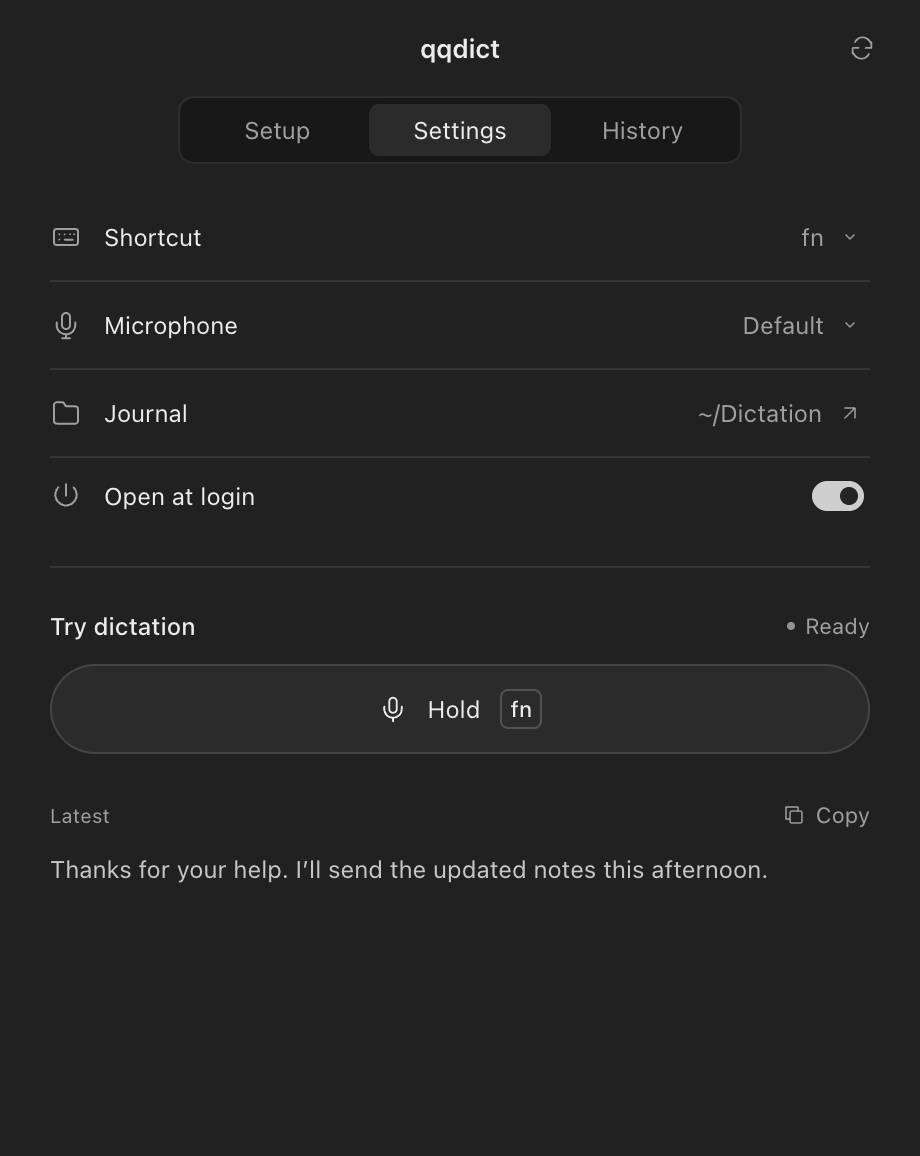
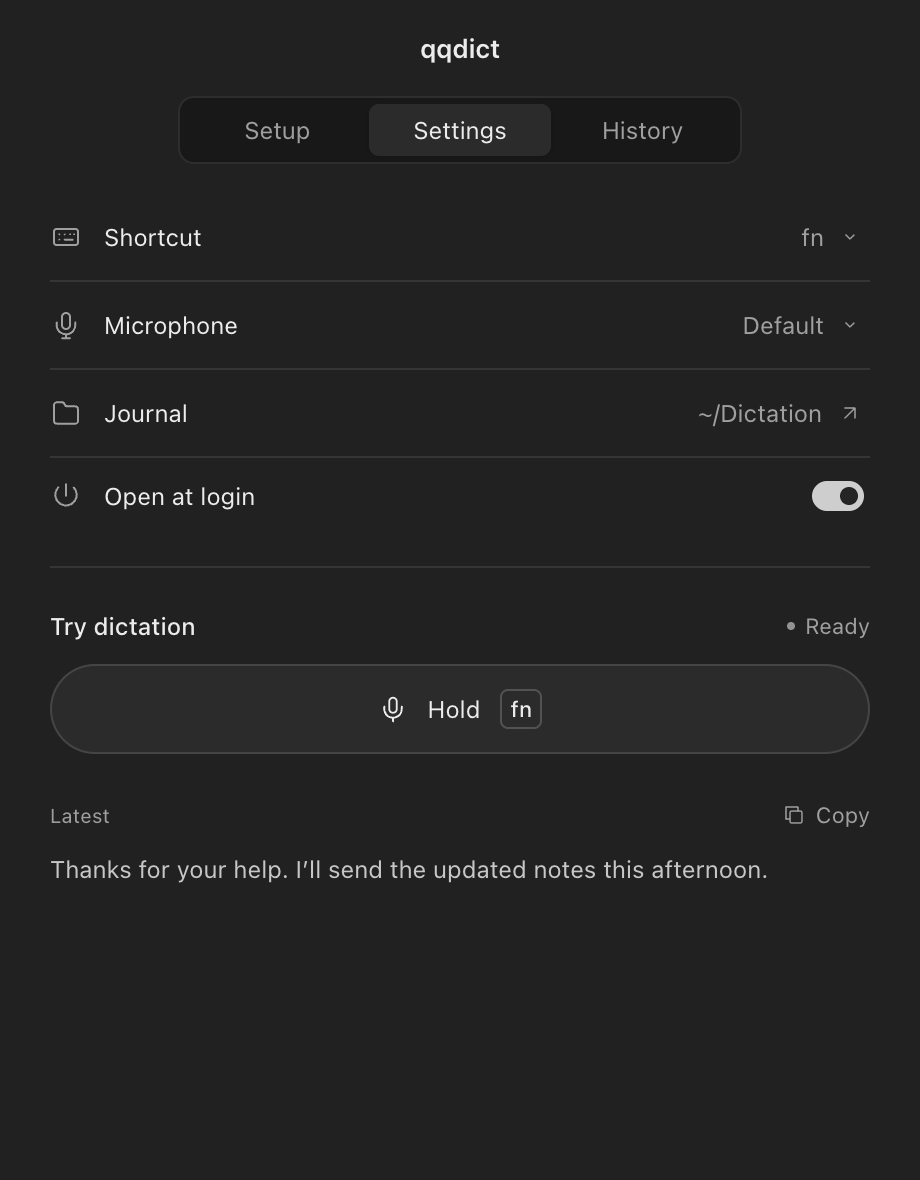
Move connection check from header into Setup

diff --git a/src/styles.css b/src/styles.css
@@ -1,6 +1,4 @@
 :root{color-scheme:dark;--canvas:#181818;--panel:#212121;--elevated:#2b2b2b;--hover:#303030;--border:#353535;--text:#ececec;--secondary:#9f9f9f;font-family:-apple-system,BlinkMacSystemFont,"SF Pro Text",sans-serif;font-size:13px;color:var(--text);background:var(--panel);font-synthesis:none;text-rendering:optimizeLegibility;-webkit-font-smoothing:antialiased}
-*{box-sizing:border-box}[hidden]{display:none!important}body{margin:0}button,select,input{font:inherit;color:inherit}button{cursor:pointer}button:disabled{cursor:default}button:focus-visible,select:focus-visible,input:focus-visible{outline:2px solid var(--text);outline-offset:3px}svg{width:16px;height:16px;fill:none;stroke:currentColor;stroke-width:1.5;stroke-linecap:round;stroke-linejoin:round;flex-shrink:0}.app{max-width:560px;margin:0 auto;height:100vh;display:flex;flex-direction:column}.titlebar{height:48px;flex-shrink:0;display:grid;grid-template-columns:74px 1fr 74px;align-items:center;padding:0 16px;user-select:none;-webkit-app-region:drag}h1{grid-column:2;margin:0;text-align:center;font-size:13px;font-weight:600;letter-spacing:-.1px}.icon-button{display:flex;align-items:center;justify-content:center;width:26px;height:26px;padding:0;border:0;border-radius:5px;background:transparent;color:var(--secondary)}.icon-button:hover{background:var(--hover);color:var(--text)}.titlebar .icon-button{grid-column:3;justify-self:end;-webkit-app-region:no-drag}.icon-button svg{width:14px;height:14px}.tabs{display:flex;flex-shrink:0;width:282px;padding:3px;margin:0 auto;background:var(--canvas);border:1px solid #2d2d2d;border-radius:8px}.tab{width:33.333%;height:26px;border:0;border-radius:5px;background:transparent;color:var(--secondary);font-size:12px}.tab[aria-selected="true"]{background:var(--elevated);color:var(--text);box-shadow:0 1px 3px #0002}.tab:hover{color:var(--text)}.content{padding:15px 25px 24px;flex:1;min-height:0;overflow-y:auto;scrollbar-width:thin;scrollbar-color:#454545 transparent}.row{display:flex;align-items:center;justify-content:space-between;gap:14px;min-height:44px;border-bottom:1px solid var(--border)}.row:last-child{border-bottom:0}.row-label{display:flex;align-items:center;gap:11px;white-space:nowrap;font-size:12px}.row-label svg{color:var(--secondary)}.select-wrap{position:relative;display:flex;align-items:center;max-width:58%;min-width:75px}select{appearance:none;border:0;background:transparent;border-radius:5px;padding:7px 23px 7px 10px;text-align:right;cursor:pointer;width:100%;font-size:12px;color:var(--secondary)}select:hover{background:var(--hover);color:var(--text)}select:disabled{opacity:.5;cursor:default}option{background:var(--elevated);color:var(--text)}.select-wrap svg{position:absolute;right:4px;width:12px;height:12px;color:var(--secondary);pointer-events:none}.journal-button{display:flex;align-items:center;gap:8px;background:transparent;border:0;border-radius:5px;padding:7px 4px 7px 10px;max-width:58%;color:var(--secondary);font-size:12px}.journal-button span{overflow:hidden;text-overflow:ellipsis;white-space:nowrap}.journal-button:hover{background:var(--hover);color:var(--text)}.journal-button svg{width:12px;height:12px}.login-row{min-height:38px}.login-row input{appearance:none;width:26px;height:15px;border:1px solid #535353;border-radius:9px;background:var(--canvas);position:relative;margin:0 3px 0 0;cursor:pointer}.login-row input:before{content:"";position:absolute;top:2px;left:2px;width:9px;height:9px;border-radius:50%;background:#8f8f8f;transition:transform .15s}.login-row input:checked{background:#cecece;border-color:#cecece}.login-row input:checked:before{transform:translateX(11px);background:#252525}.test{padding-top:22px;border-top:1px solid var(--border);margin-top:16px}.test-heading{display:flex;align-items:center;justify-content:space-between;gap:12px;margin-bottom:12px}.test-heading h2{font-size:12px;font-weight:500;margin:0}.status{display:flex;align-items:center;gap:5px;font-size:11px;color:var(--secondary);white-space:nowrap}.status-dot{width:4px;height:4px;background:#929292;border-radius:50%}.recording .status-dot,.starting .status-dot,.transcribing .status-dot{animation:pulse 1s ease-in-out infinite}.hold{touch-action:none;display:flex;align-items:center;justify-content:center;gap:10px;height:45px;width:100%;border:1px solid #454545;border-radius:24px;background:var(--elevated);color:var(--text);font-size:12px;user-select:none;transition:background .15s,border-color .15s}.hold:hover:not(:disabled){background:var(--hover);border-color:#5a5a5a}.hold:disabled{opacity:.55}.recording .hold,.starting .hold{background:var(--text);border-color:var(--text);color:var(--canvas)}.transcribing .hold{color:var(--secondary)}.hold svg{width:15px;height:15px}.hold kbd{font-size:11px;border:1px solid #525252;border-radius:4px;min-width:21px;height:20px;padding:0 4px;display:inline-grid;place-items:center;font-family:inherit;font-weight:500}.wave{height:20px;display:none;align-items:center;gap:3px}.wave span{width:2px;height:4px;min-height:4px;background:currentColor;border-radius:1px;transition:height 70ms linear}.recording .wave{display:flex}.recording .hold kbd,.starting .hold kbd,.transcribing .hold kbd,.recording .mic-icon{display:none}.recording-time{font-size:11px;font-variant-numeric:tabular-nums;color:inherit}.latest{margin-top:20px}.latest-top{display:flex;align-items:center;justify-content:space-between;gap:12px;color:var(--secondary);font-size:10px}.copy{border:0;background:transparent;border-radius:4px;padding:4px 0 4px 8px;font-size:11px;color:var(--secondary);display:flex;align-items:center;gap:5px;white-space:nowrap}.copy:hover:not(:disabled){color:var(--text)}.copy:disabled{opacity:.4}.copy svg{width:12px;height:12px}.transcript{margin:7px 0 0;color:#c7c7c7;font-size:12px;line-height:1.6;white-space:pre-wrap;overflow-wrap:anywhere;max-height:78px;overflow:auto;min-height:25px}.history-panel{padding-top:12px}.history-head{display:flex;align-items:center;justify-content:space-between;padding-bottom:17px;color:var(--secondary);font-size:11px}#history-count{font-size:10px}.history-item{padding:16px 0;border-top:1px solid var(--border)}.history-meta{display:flex;align-items:center;justify-content:space-between;gap:10px;color:var(--secondary);font-size:10px}.history-item p{margin:7px 0 0;font-size:12px;line-height:1.6;color:#c7c7c7;white-space:pre-wrap;overflow-wrap:anywhere}.history-note{display:block;color:#a7a7a7;margin-top:7px;font-size:10px}.empty-history{font-size:12px;color:var(--secondary);margin:22px 0;text-align:center}.notice{display:flex;align-items:flex-start;gap:12px;border:1px solid #454545;background:var(--elevated);border-radius:7px;padding:10px 12px;margin-bottom:13px;font-size:11px;line-height:1.5;overflow-wrap:anywhere}.notice span{flex:1}.notice .icon-button{width:18px;height:18px;flex-shrink:0}body.recorder{background:transparent}.recorder .app{display:none}@keyframes pulse{50%{opacity:.35}}@media(max-width:420px){.content{padding:15px 19px 21px}}@media(prefers-reduced-motion:reduce){*,*::before,*::after{animation:none!important;transition:none!important}}
+*{box-sizing:border-box}[hidden]{display:none!important}body{margin:0}button,select,input{font:inherit;color:inherit}button{cursor:pointer}button:disabled{cursor:default}button:focus-visible,select:focus-visible,input:focus-visible{outline:2px solid var(--text);outline-offset:3px}svg{width:16px;height:16px;fill:none;stroke:currentColor;stroke-width:1.5;stroke-linecap:round;stroke-linejoin:round;flex-shrink:0}.app{max-width:560px;margin:0 auto;height:100vh;display:flex;flex-direction:column}.titlebar{height:48px;flex-shrink:0;display:grid;grid-template-columns:74px 1fr 74px;align-items:center;padding:0 16px;user-select:none;-webkit-app-region:drag}h1{grid-column:2;margin:0;text-align:center;font-size:13px;font-weight:600;letter-spacing:-.1px}.icon-button{display:flex;align-items:center;justify-content:center;width:26px;height:26px;padding:0;border:0;border-radius:5px;background:transparent;color:var(--secondary)}.icon-button:hover{background:var(--hover);color:var(--text)}.icon-button svg{width:14px;height:14px}.tabs{display:flex;flex-shrink:0;width:282px;padding:3px;margin:0 auto;background:var(--canvas);border:1px solid #2d2d2d;border-radius:8px}.tab{width:33.333%;height:26px;border:0;border-radius:5px;background:transparent;color:var(--secondary);font-size:12px}.tab[aria-selected="true"]{background:var(--elevated);color:var(--text);box-shadow:0 1px 3px #0002}.tab:hover{color:var(--text)}.content{padding:15px 25px 24px;flex:1;min-height:0;overflow-y:auto;scrollbar-width:thin;scrollbar-color:#454545 transparent}.row{display:flex;align-items:center;justify-content:space-between;gap:14px;min-height:44px;border-bottom:1px solid var(--border)}.row:last-child{border-bottom:0}.row-label{display:flex;align-items:center;gap:11px;white-space:nowrap;font-size:12px}.row-label svg{color:var(--secondary)}.select-wrap{position:relative;display:flex;align-items:center;max-width:58%;min-width:75px}select{appearance:none;border:0;background:transparent;border-radius:5px;padding:7px 23px 7px 10px;text-align:right;cursor:pointer;width:100%;font-size:12px;color:var(--secondary)}select:hover{background:var(--hover);color:var(--text)}select:disabled{opacity:.5;cursor:default}option{background:var(--elevated);color:var(--text)}.select-wrap svg{position:absolute;right:4px;width:12px;height:12px;color:var(--secondary);pointer-events:none}.journal-button{display:flex;align-items:center;gap:8px;background:transparent;border:0;border-radius:5px;padding:7px 4px 7px 10px;max-width:58%;color:var(--secondary);font-size:12px}.journal-button span{overflow:hidden;text-overflow:ellipsis;white-space:nowrap}.journal-button:hover{background:var(--hover);color:var(--text)}.journal-button svg{width:12px;height:12px}.login-row{min-height:38px}.login-row input{appearance:none;width:26px;height:15px;border:1px solid #535353;border-radius:9px;background:var(--canvas);position:relative;margin:0 3px 0 0;cursor:pointer}.login-row input:before{content:"";position:absolute;top:2px;left:2px;width:9px;height:9px;border-radius:50%;background:#8f8f8f;transition:transform .15s}.login-row input:checked{background:#cecece;border-color:#cecece}.login-row input:checked:before{transform:translateX(11px);background:#252525}.test{padding-top:22px;border-top:1px solid var(--border);margin-top:16px}.test-heading{display:flex;align-items:center;justify-content:space-between;gap:12px;margin-bottom:12px}.test-heading h2{font-size:12px;font-weight:500;margin:0}.status{display:flex;align-items:center;gap:5px;font-size:11px;color:var(--secondary);white-space:nowrap}.status-dot{width:4px;height:4px;background:#929292;border-radius:50%}.recording .status-dot,.starting .status-dot,.transcribing .status-dot{animation:pulse 1s ease-in-out infinite}.hold{touch-action:none;display:flex;align-items:center;justify-content:center;gap:10px;height:45px;width:100%;border:1px solid #454545;border-radius:24px;background:var(--elevated);color:var(--text);font-size:12px;user-select:none;transition:background .15s,border-color .15s}.hold:hover:not(:disabled){background:var(--hover);border-color:#5a5a5a}.hold:disabled{opacity:.55}.recording .hold,.starting .hold{background:var(--text);border-color:var(--text);color:var(--canvas)}.transcribing .hold{color:var(--secondary)}.hold svg{width:15px;height:15px}.hold kbd{font-size:11px;border:1px solid #525252;border-radius:4px;min-width:21px;height:20px;padding:0 4px;display:inline-grid;place-items:center;font-family:inherit;font-weight:500}.wave{height:20px;display:none;align-items:center;gap:3px}.wave span{width:2px;height:4px;min-height:4px;background:currentColor;border-radius:1px;transition:height 70ms linear}.recording .wave{display:flex}.recording .hold kbd,.starting .hold kbd,.transcribing .hold kbd,.recording .mic-icon{display:none}.recording-time{font-size:11px;font-variant-numeric:tabular-nums;color:inherit}.latest{margin-top:20px}.latest-top{display:flex;align-items:center;justify-content:space-between;gap:12px;color:var(--secondary);font-size:10px}.copy{border:0;background:transparent;border-radius:4px;padding:4px 0 4px 8px;font-size:11px;color:var(--secondary);display:flex;align-items:center;gap:5px;white-space:nowrap}.copy:hover:not(:disabled){color:var(--text)}.copy:disabled{opacity:.4}.copy svg{width:12px;height:12px}.transcript{margin:7px 0 0;color:#c7c7c7;font-size:12px;line-height:1.6;white-space:pre-wrap;overflow-wrap:anywhere;max-height:78px;overflow:auto;min-height:25px}.history-panel{padding-top:12px}.history-head{display:flex;align-items:center;justify-content:space-between;padding-bottom:17px;color:var(--secondary);font-size:11px}#history-count{font-size:10px}.history-item{padding:16px 0;border-top:1px solid var(--border)}.history-meta{display:flex;align-items:center;justify-content:space-between;gap:10px;color:var(--secondary);font-size:10px}.history-item p{margin:7px 0 0;font-size:12px;line-height:1.6;color:#c7c7c7;white-space:pre-wrap;overflow-wrap:anywhere}.history-note{display:block;color:#a7a7a7;margin-top:7px;font-size:10px}.empty-history{font-size:12px;color:var(--secondary);margin:22px 0;text-align:center}.notice{display:flex;align-items:flex-start;gap:12px;border:1px solid #454545;background:var(--elevated);border-radius:7px;padding:10px 12px;margin-bottom:13px;font-size:11px;line-height:1.5;overflow-wrap:anywhere}.notice span{flex:1}.notice .icon-button{width:18px;height:18px;flex-shrink:0}body.recorder{background:transparent}.recorder .app{display:none}@keyframes pulse{50%{opacity:.35}}@media(max-width:420px){.content{padding:15px 19px 21px}}@media(prefers-reduced-motion:reduce){*,*::before,*::after{animation:none!important;transition:none!important}}
 
-.setup-panel{padding-top:13px}.setup-heading h2{font-size:22px;font-weight:600;letter-spacing:-.6px;margin:0;line-height:1.2}.setup-heading p{margin:8px 0 0;font-size:12px;color:var(--secondary);line-height:1.5}.setup-progress{margin:20px 0 5px;color:var(--secondary);font-size:11px}.setup-progress progress{display:block;width:100%;height:4px;margin-top:9px;border:0;border-radius:3px;overflow:hidden;background:var(--border);appearance:none}.setup-progress progress::-webkit-progress-bar{background:var(--border);border-radius:3px}.setup-progress progress::-webkit-progress-value{background:#d6d6d6;border-radius:3px;transition:width .2s}.setup-step{display:flex;align-items:center;gap:12px;min-height:72px;padding:14px 0;border-bottom:1px solid var(--border)}.setup-step:last-child{border-bottom:0}.step-mark{display:grid;place-items:center;flex-shrink:0;width:26px;height:26px;border:1px solid #484848;border-radius:50%;color:var(--secondary);font-size:11px;font-variant-numeric:tabular-nums}.setup-step.complete .step-mark{background:#d6d6d6;border-color:#d6d6d6;color:#212121}.setup-step.is-next .step-mark{border-color:#a7a7a7;color:var(--text)}.step-copy{flex:1;min-width:0}.step-copy h3{margin:0;font-size:12px;font-weight:600}.step-copy p{margin:5px 0 0;color:var(--secondary);font-size:11px;line-height:1.45;overflow-wrap:anywhere}.step-state{font-size:11px;color:var(--secondary);white-space:nowrap}.setup-action{flex-shrink:0;min-height:30px;padding:6px 10px;border:1px solid #4a4a4a;border-radius:6px;background:transparent;color:var(--text);font-size:11px;white-space:nowrap}.setup-action:hover:not(:disabled){background:var(--hover);border-color:#686868}.setup-action:disabled{color:var(--secondary);border-color:#383838}.setup-step.is-next .setup-action{background:var(--text);border-color:var(--text);color:var(--canvas)}.setup-step.is-next .setup-action:hover:not(:disabled){background:#d8d8d8;border-color:#d8d8d8}.setup-continue{display:flex;align-items:center;justify-content:center;gap:9px;min-height:40px;width:100%;margin-top:20px;border:1px solid var(--text);border-radius:22px;background:var(--text);color:var(--canvas);font-size:12px;font-weight:500}.setup-continue:hover{background:#d8d8d8;border-color:#d8d8d8}.setup-continue svg{width:14px;height:14px}.tab[data-incomplete="true"]::after{content:"";display:inline-block;width:4px;height:4px;margin-left:5px;border-radius:50%;background:currentColor;vertical-align:middle}@media(max-width:420px){.setup-step{gap:9px}.setup-action{padding:6px 8px}.step-copy p{font-size:10px}}@media(prefers-reduced-motion:reduce){.setup-progress progress::-webkit-progress-value{transition:none}}
-
-.icon-button:disabled{opacity:.5}.icon-button[aria-busy="true"] svg{animation:refresh-spin 1s linear infinite}@keyframes refresh-spin{to{transform:rotate(360deg)}}@media(prefers-reduced-motion:reduce){.icon-button[aria-busy="true"] svg{animation:none}}
+.setup-panel{padding-top:13px}.setup-heading h2{font-size:22px;font-weight:600;letter-spacing:-.6px;margin:0;line-height:1.2}.setup-heading p{margin:8px 0 0;font-size:12px;color:var(--secondary);line-height:1.5}.setup-progress{margin:20px 0 5px;color:var(--secondary);font-size:11px}.setup-progress-meta{display:flex;align-items:center;justify-content:space-between;gap:12px;min-height:22px}.setup-check{border:0;border-radius:4px;background:transparent;padding:4px 6px;color:var(--secondary);font-size:11px;white-space:nowrap}.setup-check:hover:not(:disabled){background:var(--hover);color:var(--text)}.setup-check:disabled{opacity:.6}.setup-progress progress{display:block;width:100%;height:4px;margin-top:9px;border:0;border-radius:3px;overflow:hidden;background:var(--border);appearance:none}.setup-progress progress::-webkit-progress-bar{background:var(--border);border-radius:3px}.setup-progress progress::-webkit-progress-value{background:#d6d6d6;border-radius:3px;transition:width .2s}.setup-step{display:flex;align-items:center;gap:12px;min-height:72px;padding:14px 0;border-bottom:1px solid var(--border)}.setup-step:last-child{border-bottom:0}.step-mark{display:grid;place-items:center;flex-shrink:0;width:26px;height:26px;border:1px solid #484848;border-radius:50%;color:var(--secondary);font-size:11px;font-variant-numeric:tabular-nums}.setup-step.complete .step-mark{background:#d6d6d6;border-color:#d6d6d6;color:#212121}.setup-step.is-next .step-mark{border-color:#a7a7a7;color:var(--text)}.step-copy{flex:1;min-width:0}.step-copy h3{margin:0;font-size:12px;font-weight:600}.step-copy p{margin:5px 0 0;color:var(--secondary);font-size:11px;line-height:1.45;overflow-wrap:anywhere}.step-state{font-size:11px;color:var(--secondary);white-space:nowrap}.setup-action{flex-shrink:0;min-height:30px;padding:6px 10px;border:1px solid #4a4a4a;border-radius:6px;background:transparent;color:var(--text);font-size:11px;white-space:nowrap}.setup-action:hover:not(:disabled){background:var(--hover);border-color:#686868}.setup-action:disabled{color:var(--secondary);border-color:#383838}.setup-step.is-next .setup-action{background:var(--text);border-color:var(--text);color:var(--canvas)}.setup-step.is-next .setup-action:hover:not(:disabled){background:#d8d8d8;border-color:#d8d8d8}.setup-continue{display:flex;align-items:center;justify-content:center;gap:9px;min-height:40px;width:100%;margin-top:20px;border:1px solid var(--text);border-radius:22px;background:var(--text);color:var(--canvas);font-size:12px;font-weight:500}.setup-continue:hover{background:#d8d8d8;border-color:#d8d8d8}.setup-continue svg{width:14px;height:14px}.tab[data-incomplete="true"]::after{content:"";display:inline-block;width:4px;height:4px;margin-left:5px;border-radius:50%;background:currentColor;vertical-align:middle}@media(max-width:420px){.setup-step{gap:9px}.setup-action{padding:6px 8px}.step-copy p{font-size:10px}}@media(prefers-reduced-motion:reduce){.setup-progress progress::-webkit-progress-value{transition:none}}

diff --git a/index.html b/index.html
@@ -10,7 +10,7 @@
   </head>
   <body>
     <main class="app">
-      <header class="titlebar"><h1>qqdict</h1><button id="refresh-button" class="icon-button" type="button" aria-label="Refresh connection and permissions" title="Refresh"><svg viewBox="0 0 24 24" aria-hidden="true"><path d="M20 7v5h-5M4 17v-5h5M6.1 7a7 7 0 0 1 11.5-2L20 8M4 16l2.4 3A7 7 0 0 0 17.9 17"/></svg></button></header>
+      <header class="titlebar"><h1>qqdict</h1></header>
       <nav class="tabs" role="tablist" aria-label="qqdict">
         <button class="tab" id="setup-tab" role="tab" aria-controls="setup-panel" aria-selected="false" tabindex="-1">Setup</button>
         <button class="tab" id="settings-tab" role="tab" aria-controls="settings-panel" aria-selected="true">Settings</button>
@@ -20,7 +20,7 @@
         <div id="error-panel" class="notice" role="alert" hidden><span id="error-message"></span><button id="dismiss-error" class="icon-button" type="button" aria-label="Dismiss message"><svg viewBox="0 0 24 24" aria-hidden="true"><path d="m6 6 12 12M6 18 18 6"/></svg></button></div>
         <section class="tab-panel setup-panel" id="setup-panel" role="tabpanel" aria-labelledby="setup-tab" hidden>
           <div class="setup-heading"><h2 id="setup-title">Set up qqdict</h2><p id="setup-description">Connect your Codex account and allow access on this Mac.</p></div>
-          <div class="setup-progress"><span id="setup-count" role="status" aria-live="polite">Checking access…</span><progress id="setup-progress" value="0" max="4" aria-label="Setup progress"></progress></div>
+          <div class="setup-progress"><div class="setup-progress-meta"><span id="setup-count" role="status" aria-live="polite">Checking access…</span><button id="refresh-button" class="setup-check" type="button" aria-label="Check connection and permissions again">Check again</button></div><progress id="setup-progress" value="0" max="4" aria-label="Setup progress"></progress></div>
           <div class="setup-steps">
             <div class="setup-step" id="account-step"><span class="step-mark" aria-hidden="true">1</span><div class="step-copy"><h3>Codex account</h3><p id="connection-label">Sign in to Codex, then reconnect.</p></div><span id="connection-state" class="step-state" hidden>Connected</span><button id="reconnect-button" class="setup-action" type="button">Reconnect</button></div>
             <div class="setup-step" id="microphone-step"><span class="step-mark" aria-hidden="true">2</span><div class="step-copy"><h3>Microphone</h3><p id="microphone-setup-detail">Captures your voice.</p></div><span id="microphone-state" class="step-state" hidden>Allowed</span><button data-permission="microphone" id="microphone-permission" class="setup-action" type="button">Allow</button></div>

diff --git a/src/renderer.ts b/src/renderer.ts
@@ -546,11 +546,13 @@ function runSettings(): void {
     const button = element<HTMLButtonElement>('refresh-button');
     button.disabled = true;
     button.setAttribute('aria-busy', 'true');
+    button.textContent = 'Checking…';
     if (state) renderSetup(state);
     action(api.refresh().then(render).finally(() => {
       refreshing = false;
       button.disabled = false;
       button.setAttribute('aria-busy', 'false');
+      button.textContent = 'Check again';
       if (state) renderSetup(state);
     }));
   };

diff --git a/docs/releasing.md b/docs/releasing.md
@@ -12,11 +12,11 @@ npm test
 npm run dist:mac
 ```
 
-The installer builder produces versioned DMG and ZIP files in `release/`, plus a SHA-256 manifest for that architecture. For version 0.5.2:
+The installer builder produces versioned DMG and ZIP files in `release/`, plus a SHA-256 manifest for that architecture. For version 0.5.3:
 
 ```text
-qqdict-0.5.2-mac-arm64.dmg
-qqdict-0.5.2-mac-arm64.zip
+qqdict-0.5.3-mac-arm64.dmg
+qqdict-0.5.3-mac-arm64.zip
 SHA256SUMS-arm64.txt
 ```
 
@@ -26,9 +26,9 @@ Without configured Apple credentials, these are **ad hoc signed, unnotarized pre
 
 ## GitHub release workflow
 
-The workflow runs tests and builds on macOS runners for both architectures when a `v*` tag is pushed. Keep `package.json`, the lockfile, and the tag version consistent. For the initial release, use `v0.5.2`.
+The workflow runs tests and builds on macOS runners for both architectures when a `v*` tag is pushed. Keep `package.json`, the lockfile, and the tag version consistent. Use a `v` prefix with the package version, for example `v0.5.3`.
 
-The workflow publishes versioned assets to the GitHub release, including a `release-metadata-{arch}.json` file that records signing status. Check both jobs and inspect the downloadable assets before announcing the release. Unnotarized previews are prereleases. The README links directly to `v0.5.2`; update its versioned links for each release. GitHub’s `/releases/latest` link skips prereleases and is suitable once a stable notarized release is available.
+The workflow publishes versioned assets to the GitHub release, including a `release-metadata-{arch}.json` file that records signing status. Check both jobs and inspect the downloadable assets before announcing the release. Unnotarized previews are prereleases. The README links directly to `v0.5.3`; update its versioned links for each release. GitHub’s `/releases/latest` link skips prereleases and is suitable once a stable notarized release is available.
 
 ## Developer ID signing and notarization
 
